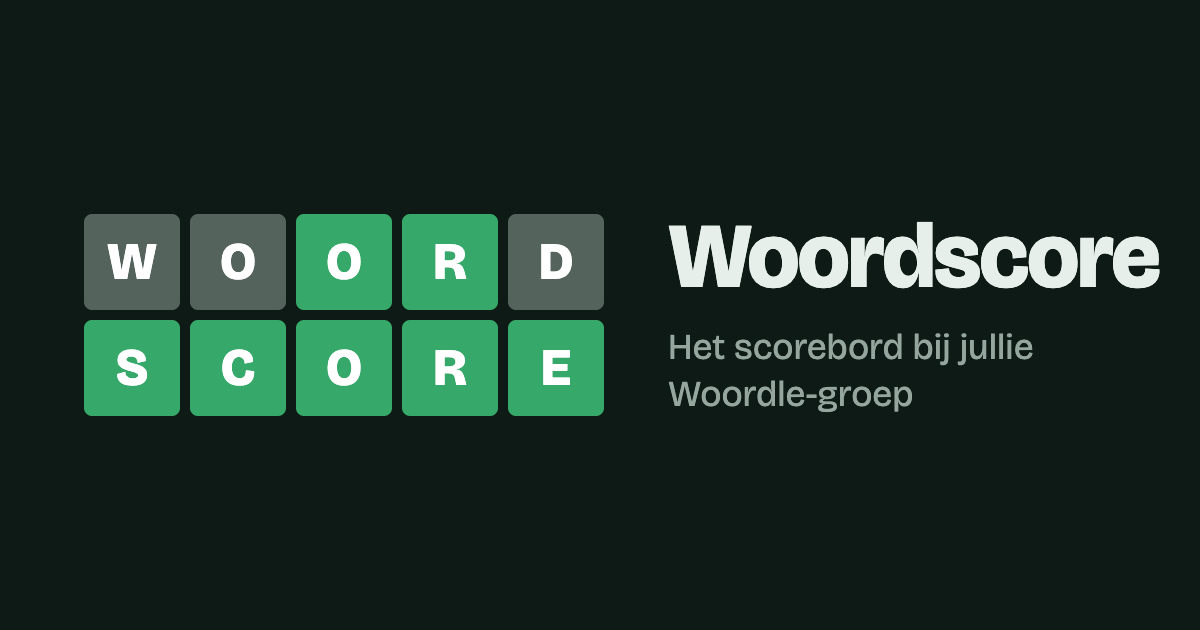
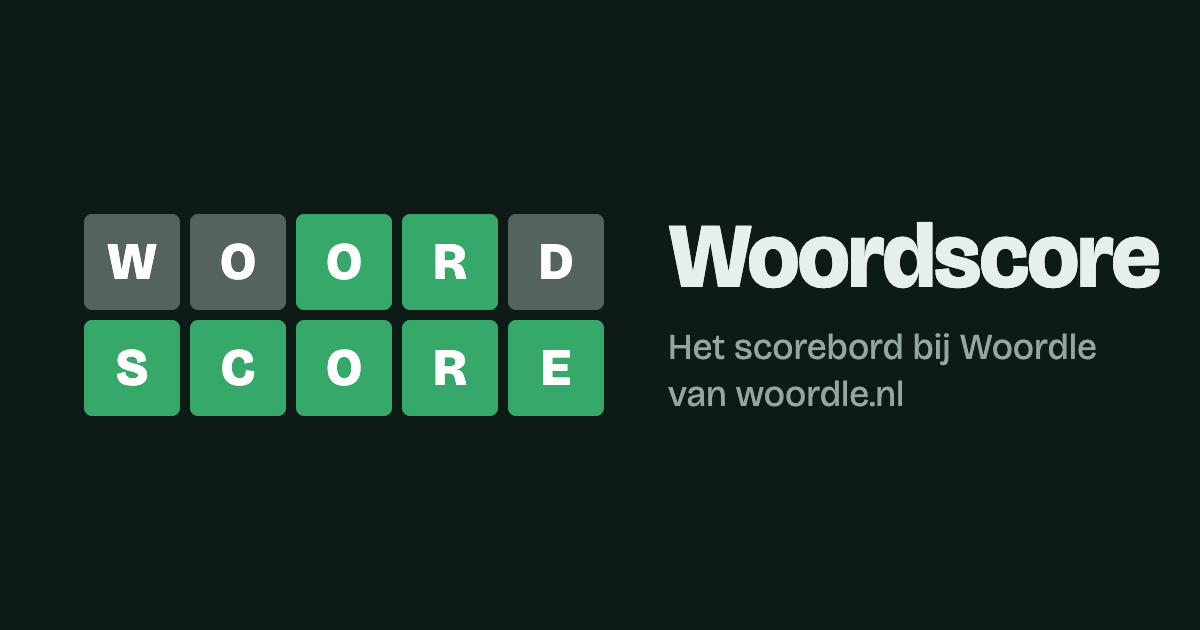
The start page names woordle.nl in its first sentence, as do the link preview and its picture

Changed region(s): [[0.555, 0.6032, 0.7708, 0.6635], [0.8017, 0.5127, 0.925, 0.573]]

diff --git a/index.html b/index.html
@@ -6,7 +6,7 @@
     <title>Woordscore</title>
     <meta
       name="description"
-      content="Het scorebord bij jullie Woordle-groep. Woordscore telt de uitslagen uit de groepschat op."
+      content="Voor groepen die Woordle spelen op woordle.nl en hun uitslag in WhatsApp delen. Woordscore telt die uitslagen op."
     />
     <link
       rel="icon"
@@ -17,7 +17,10 @@
     <meta property="og:type" content="website" />
     <meta property="og:site_name" content="Woordscore" />
     <meta property="og:title" content="Woordscore" />
-    <meta property="og:description" content="Het scorebord bij jullie Woordle-groep." />
+    <meta
+      property="og:description"
+      content="Het scorebord voor groepen die Woordle spelen op woordle.nl."
+    />
     <meta property="og:url" content="https://woordscore.nl/" />
     <meta property="og:image" content="https://woordscore.nl/og.png" />
     <meta property="og:image:width" content="1200" />

diff --git a/src/components/layout/Hero.tsx b/src/components/layout/Hero.tsx
@@ -22,8 +22,12 @@ export function Hero({ board }: { board: OpenBoard | null }): React.JSX.Element 
         </>
       ) : (
         <p className="lede">
-          Het scorebord bij jullie Woordle-groep. Woordscore telt de uitslagen uit jullie groepschat
-          op en laat zien wie er het beste in is.
+          Voor groepen die Woordle spelen op{" "}
+          <a href="https://woordle.nl" rel="noopener">
+            woordle.nl
+          </a>{" "}
+          en hun uitslag in WhatsApp delen. Woordscore telt die uitslagen op en laat zien wie er het
+          beste in is.
         </p>
       )}
     </header>

diff --git a/brand/og.html b/brand/og.html
@@ -69,7 +69,7 @@
     </div>
     <div>
       <h1>Woordscore</h1>
-      <p>Het scorebord bij jullie Woordle-groep</p>
+      <p>Het scorebord bij Woordle van woordle.nl</p>
     </div>
   </body>
 </html>
